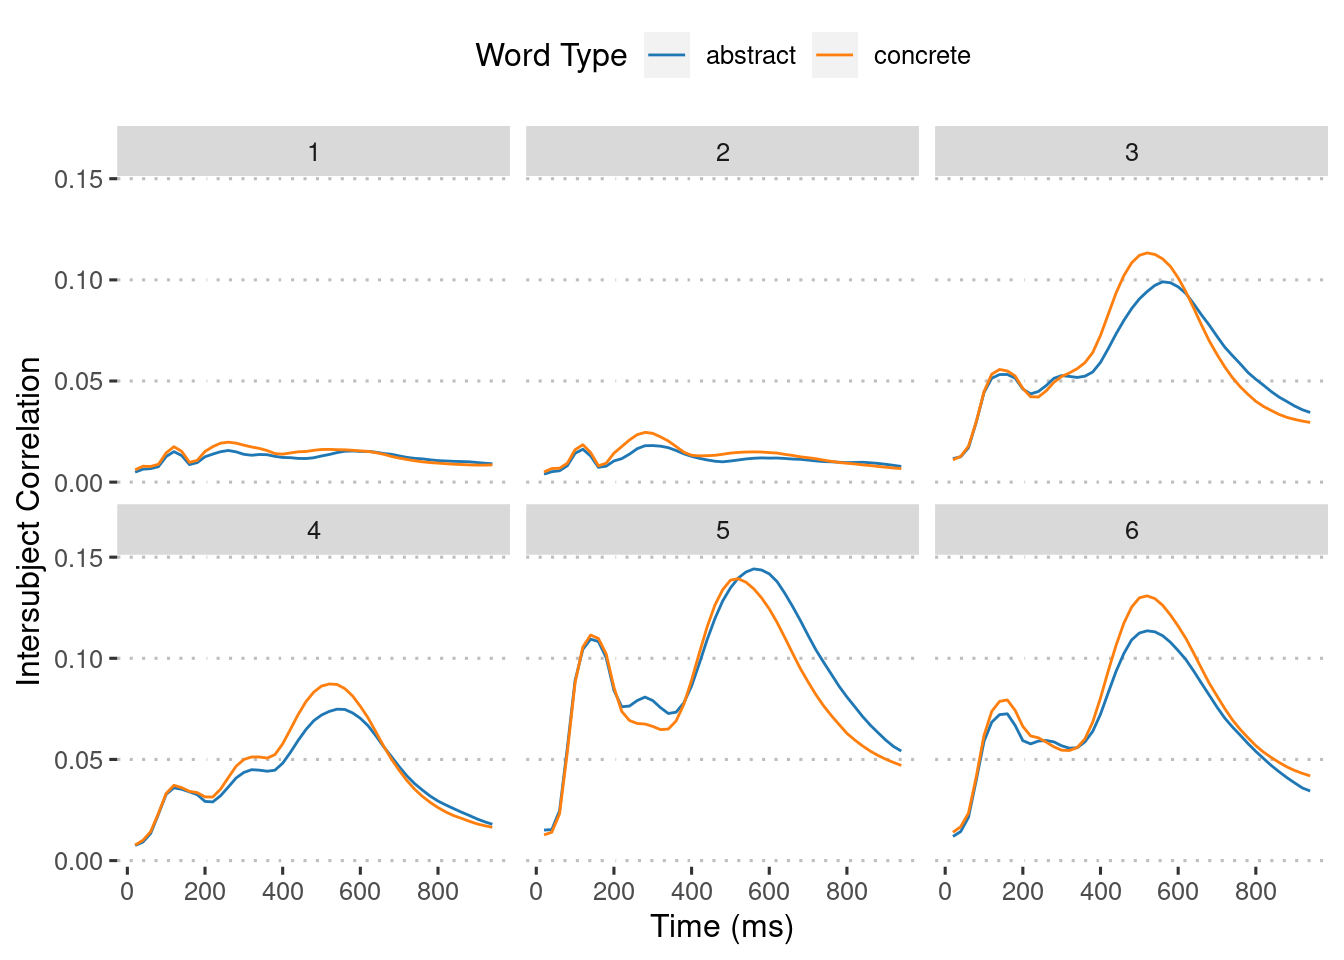
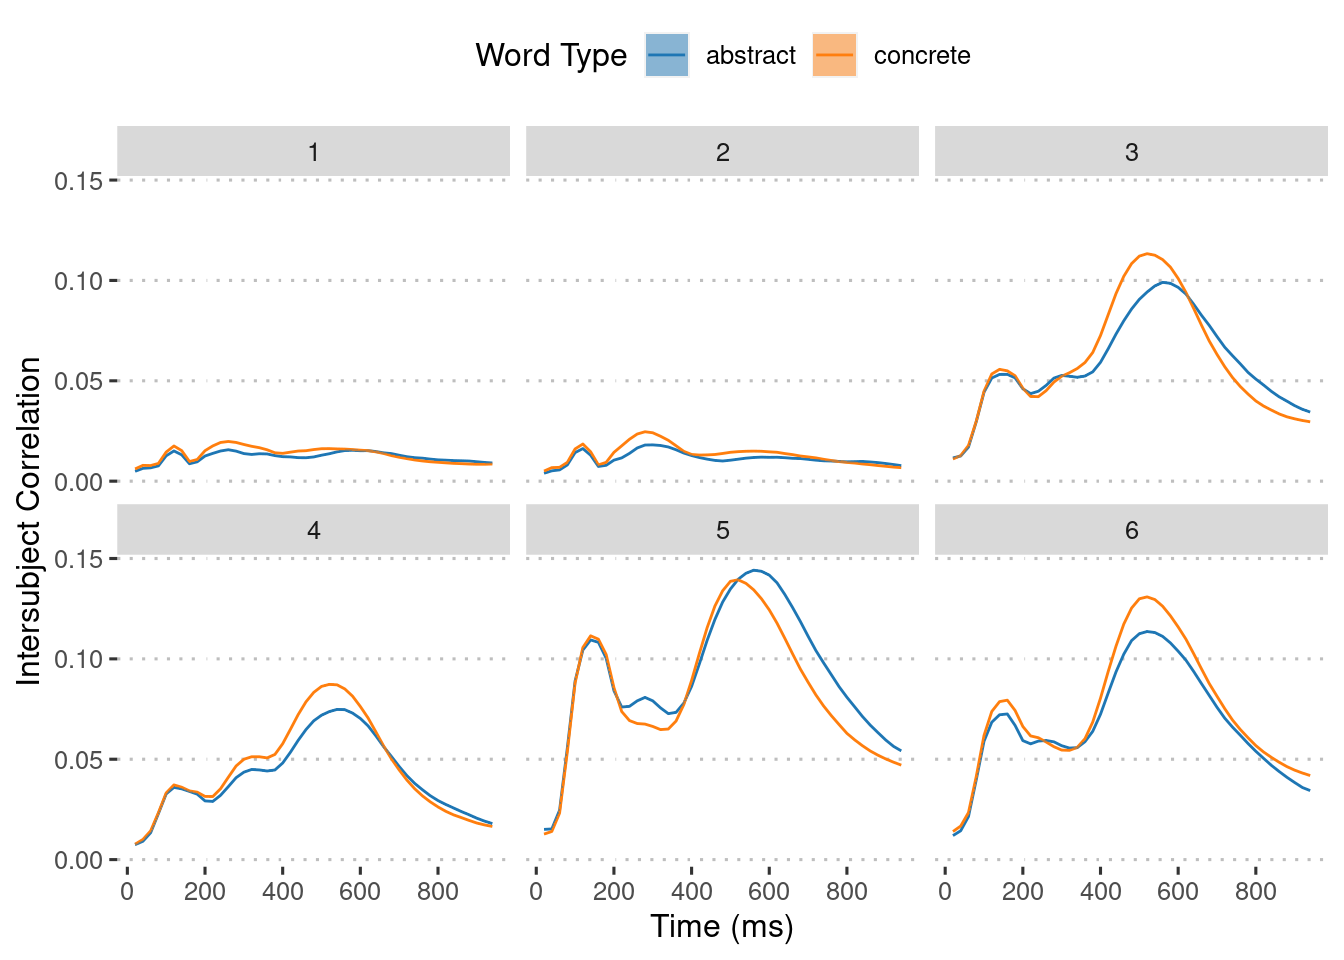
Built site for gh-pages

diff --git a/index.html b/index.html
@@ -225,13 +225,15 @@ div.csl-indent {
 <span id="cb2-12"><a href="#cb2-12" aria-hidden="true" tabindex="-1"></a>  ggpubr<span class="sc">::</span><span class="fu">theme_pubclean</span>()</span>
 <span id="cb2-13"><a href="#cb2-13" aria-hidden="true" tabindex="-1"></a></span>
 <span id="cb2-14"><a href="#cb2-14" aria-hidden="true" tabindex="-1"></a>targets<span class="sc">::</span><span class="fu">tar_read</span>(summary_word_cat_rsa_inter_common_trials_window) <span class="sc">|&gt;</span></span>
-<span id="cb2-15"><a href="#cb2-15" aria-hidden="true" tabindex="-1"></a>  <span class="fu">ggplot</span>(<span class="fu">aes</span>(window_id, mean_fisher_z)) <span class="sc">+</span></span>
+<span id="cb2-15"><a href="#cb2-15" aria-hidden="true" tabindex="-1"></a>  <span class="fu">ggplot</span>(<span class="fu">aes</span>(window_id, y, <span class="at">ymax =</span> ymax, <span class="at">ymin =</span> ymin)) <span class="sc">+</span></span>
 <span id="cb2-16"><a href="#cb2-16" aria-hidden="true" tabindex="-1"></a>  <span class="fu">geom_line</span>(<span class="fu">aes</span>(<span class="at">color =</span> word_category, <span class="at">group =</span> word_category)) <span class="sc">+</span></span>
-<span id="cb2-17"><a href="#cb2-17" aria-hidden="true" tabindex="-1"></a>  <span class="fu">scale_x_continuous</span>(<span class="at">name =</span> <span class="st">"Time (ms)"</span>, <span class="at">labels =</span> \(x) x <span class="sc">*</span> <span class="dv">20</span>) <span class="sc">+</span></span>
-<span id="cb2-18"><a href="#cb2-18" aria-hidden="true" tabindex="-1"></a>  <span class="fu">scale_y_continuous</span>(<span class="at">name =</span> <span class="st">"Intersubject Correlation"</span>) <span class="sc">+</span></span>
-<span id="cb2-19"><a href="#cb2-19" aria-hidden="true" tabindex="-1"></a>  ggsci<span class="sc">::</span><span class="fu">scale_color_d3</span>(<span class="at">name =</span> <span class="st">"Word Type"</span>) <span class="sc">+</span></span>
-<span id="cb2-20"><a href="#cb2-20" aria-hidden="true" tabindex="-1"></a>  <span class="fu">facet_wrap</span>(<span class="fu">vars</span>(region_id)) <span class="sc">+</span></span>
-<span id="cb2-21"><a href="#cb2-21" aria-hidden="true" tabindex="-1"></a>  ggpubr<span class="sc">::</span><span class="fu">theme_pubclean</span>()</span></code><button title="Copy to Clipboard" class="code-copy-button"><i class="bi"></i></button></pre></div>
+<span id="cb2-17"><a href="#cb2-17" aria-hidden="true" tabindex="-1"></a>  <span class="fu">geom_ribbon</span>(<span class="fu">aes</span>(<span class="at">fill =</span> word_category), <span class="at">alpha =</span> <span class="fl">0.5</span>) <span class="sc">+</span></span>
+<span id="cb2-18"><a href="#cb2-18" aria-hidden="true" tabindex="-1"></a>  <span class="fu">scale_x_continuous</span>(<span class="at">name =</span> <span class="st">"Time (ms)"</span>, <span class="at">labels =</span> \(x) x <span class="sc">*</span> <span class="dv">20</span>) <span class="sc">+</span></span>
+<span id="cb2-19"><a href="#cb2-19" aria-hidden="true" tabindex="-1"></a>  <span class="fu">scale_y_continuous</span>(<span class="at">name =</span> <span class="st">"Intersubject Correlation"</span>) <span class="sc">+</span></span>
+<span id="cb2-20"><a href="#cb2-20" aria-hidden="true" tabindex="-1"></a>  ggsci<span class="sc">::</span><span class="fu">scale_fill_d3</span>(<span class="at">name =</span> <span class="st">"Word Type"</span>) <span class="sc">+</span></span>
+<span id="cb2-21"><a href="#cb2-21" aria-hidden="true" tabindex="-1"></a>  ggsci<span class="sc">::</span><span class="fu">scale_color_d3</span>(<span class="at">name =</span> <span class="st">"Word Type"</span>) <span class="sc">+</span></span>
+<span id="cb2-22"><a href="#cb2-22" aria-hidden="true" tabindex="-1"></a>  <span class="fu">facet_wrap</span>(<span class="fu">vars</span>(region_id)) <span class="sc">+</span></span>
+<span id="cb2-23"><a href="#cb2-23" aria-hidden="true" tabindex="-1"></a>  ggpubr<span class="sc">::</span><span class="fu">theme_pubclean</span>()</span></code><button title="Copy to Clipboard" class="code-copy-button"><i class="bi"></i></button></pre></div>
 </details>
 <div class="cell-output-display">
 <div id="fig-inter-abs-con-1" class="quarto-figure quarto-figure-center anchored">
@@ -273,13 +275,18 @@ div.csl-indent {
 <span id="cb3-12"><a href="#cb3-12" aria-hidden="true" tabindex="-1"></a>  ggpubr<span class="sc">::</span><span class="fu">theme_pubclean</span>()</span>
 <span id="cb3-13"><a href="#cb3-13" aria-hidden="true" tabindex="-1"></a></span>
 <span id="cb3-14"><a href="#cb3-14" aria-hidden="true" tabindex="-1"></a>targets<span class="sc">::</span><span class="fu">tar_read</span>(summary_word_mem_rsa_inter_common_trials_window) <span class="sc">|&gt;</span></span>
-<span id="cb3-15"><a href="#cb3-15" aria-hidden="true" tabindex="-1"></a>  <span class="fu">ggplot</span>(<span class="fu">aes</span>(window_id, mean_fisher_z)) <span class="sc">+</span></span>
+<span id="cb3-15"><a href="#cb3-15" aria-hidden="true" tabindex="-1"></a>  <span class="fu">ggplot</span>(<span class="fu">aes</span>(window_id, y, <span class="at">ymax =</span> ymax, <span class="at">ymin =</span> ymin)) <span class="sc">+</span></span>
 <span id="cb3-16"><a href="#cb3-16" aria-hidden="true" tabindex="-1"></a>  <span class="fu">geom_line</span>(<span class="fu">aes</span>(<span class="at">color =</span> response_type_shared, <span class="at">group =</span> response_type_shared)) <span class="sc">+</span></span>
-<span id="cb3-17"><a href="#cb3-17" aria-hidden="true" tabindex="-1"></a>  <span class="fu">scale_x_continuous</span>(<span class="at">name =</span> <span class="st">"Time (ms)"</span>, <span class="at">labels =</span> \(x) x <span class="sc">*</span> <span class="dv">20</span>) <span class="sc">+</span></span>
-<span id="cb3-18"><a href="#cb3-18" aria-hidden="true" tabindex="-1"></a>  <span class="fu">scale_y_continuous</span>(<span class="at">name =</span> <span class="st">"Intersubject Correlation"</span>) <span class="sc">+</span></span>
-<span id="cb3-19"><a href="#cb3-19" aria-hidden="true" tabindex="-1"></a>  <span class="fu">scale_color_brewer</span>(<span class="at">name =</span> <span class="st">"Mem Type Common"</span>, <span class="at">palette =</span> <span class="st">"Oranges"</span>, <span class="at">direction =</span> <span class="sc">-</span><span class="dv">1</span>) <span class="sc">+</span></span>
-<span id="cb3-20"><a href="#cb3-20" aria-hidden="true" tabindex="-1"></a>  <span class="fu">facet_wrap</span>(<span class="fu">vars</span>(region_id)) <span class="sc">+</span></span>
-<span id="cb3-21"><a href="#cb3-21" aria-hidden="true" tabindex="-1"></a>  ggpubr<span class="sc">::</span><span class="fu">theme_pubclean</span>()</span></code><button title="Copy to Clipboard" class="code-copy-button"><i class="bi"></i></button></pre></div>
+<span id="cb3-17"><a href="#cb3-17" aria-hidden="true" tabindex="-1"></a>  <span class="fu">geom_ribbon</span>(<span class="fu">aes</span>(<span class="at">fill =</span> response_type_shared)) <span class="sc">+</span></span>
+<span id="cb3-18"><a href="#cb3-18" aria-hidden="true" tabindex="-1"></a>  <span class="fu">scale_x_continuous</span>(<span class="at">name =</span> <span class="st">"Time (ms)"</span>, <span class="at">labels =</span> \(x) x <span class="sc">*</span> <span class="dv">20</span>) <span class="sc">+</span></span>
+<span id="cb3-19"><a href="#cb3-19" aria-hidden="true" tabindex="-1"></a>  <span class="fu">scale_y_continuous</span>(<span class="at">name =</span> <span class="st">"Intersubject Correlation"</span>) <span class="sc">+</span></span>
+<span id="cb3-20"><a href="#cb3-20" aria-hidden="true" tabindex="-1"></a>  <span class="fu">scale_color_brewer</span>(</span>
+<span id="cb3-21"><a href="#cb3-21" aria-hidden="true" tabindex="-1"></a>    <span class="at">name =</span> <span class="st">"Mem Type Common"</span>, </span>
+<span id="cb3-22"><a href="#cb3-22" aria-hidden="true" tabindex="-1"></a>    <span class="at">palette =</span> <span class="st">"Oranges"</span>, <span class="at">direction =</span> <span class="sc">-</span><span class="dv">1</span>, </span>
+<span id="cb3-23"><a href="#cb3-23" aria-hidden="true" tabindex="-1"></a>    <span class="at">aesthetics =</span> <span class="fu">c</span>(<span class="st">"colour"</span>, <span class="st">"fill"</span>)</span>
+<span id="cb3-24"><a href="#cb3-24" aria-hidden="true" tabindex="-1"></a>  ) <span class="sc">+</span></span>
+<span id="cb3-25"><a href="#cb3-25" aria-hidden="true" tabindex="-1"></a>  <span class="fu">facet_wrap</span>(<span class="fu">vars</span>(region_id)) <span class="sc">+</span></span>
+<span id="cb3-26"><a href="#cb3-26" aria-hidden="true" tabindex="-1"></a>  ggpubr<span class="sc">::</span><span class="fu">theme_pubclean</span>()</span></code><button title="Copy to Clipboard" class="code-copy-button"><i class="bi"></i></button></pre></div>
 </details>
 <div class="cell-output-display">
 <div id="fig-inter-mem-eff-1" class="quarto-figure quarto-figure-center anchored">
@@ -367,16 +374,16 @@ div.csl-indent {
 <span id="cb4-54"><a href="#cb4-54" aria-hidden="true" tabindex="-1"></a>  ) <span class="sc">+</span></span>
 <span id="cb4-55"><a href="#cb4-55" aria-hidden="true" tabindex="-1"></a>  ggpubr<span class="sc">::</span><span class="fu">theme_pubr</span>()</span>
 <span id="cb4-56"><a href="#cb4-56" aria-hidden="true" tabindex="-1"></a></span>
-<span id="cb4-57"><a href="#cb4-57" aria-hidden="true" tabindex="-1"></a>clusters_p_group_window <span class="ot">&lt;-</span> targets<span class="sc">::</span><span class="fu">tar_read</span>(clusters_p_group_window) <span class="sc">|&gt;</span></span>
+<span id="cb4-57"><a href="#cb4-57" aria-hidden="true" tabindex="-1"></a>clusters_p_pred_perf <span class="ot">&lt;-</span> targets<span class="sc">::</span><span class="fu">tar_read</span>(clusters_p_pred_perf) <span class="sc">|&gt;</span></span>
 <span id="cb4-58"><a href="#cb4-58" aria-hidden="true" tabindex="-1"></a>  <span class="fu">filter</span>(mem_type <span class="sc">%in%</span> <span class="fu">names</span>(mem_types_report))</span>
-<span id="cb4-59"><a href="#cb4-59" aria-hidden="true" tabindex="-1"></a>stats <span class="ot">&lt;-</span> targets<span class="sc">::</span><span class="fu">tar_read</span>(stats_group_window) <span class="sc">|&gt;</span></span>
+<span id="cb4-59"><a href="#cb4-59" aria-hidden="true" tabindex="-1"></a>stats_pred_perf <span class="ot">&lt;-</span> targets<span class="sc">::</span><span class="fu">tar_read</span>(stats_pred_perf) <span class="sc">|&gt;</span></span>
 <span id="cb4-60"><a href="#cb4-60" aria-hidden="true" tabindex="-1"></a>  <span class="fu">filter</span>(mem_type <span class="sc">%in%</span> <span class="fu">names</span>(mem_types_report))</span>
-<span id="cb4-61"><a href="#cb4-61" aria-hidden="true" tabindex="-1"></a>stats <span class="sc">|&gt;</span></span>
+<span id="cb4-61"><a href="#cb4-61" aria-hidden="true" tabindex="-1"></a>stats_pred_perf <span class="sc">|&gt;</span></span>
 <span id="cb4-62"><a href="#cb4-62" aria-hidden="true" tabindex="-1"></a>  <span class="fu">ggplot</span>(<span class="fu">aes</span>(window_id, estimate)) <span class="sc">+</span></span>
 <span id="cb4-63"><a href="#cb4-63" aria-hidden="true" tabindex="-1"></a>  <span class="fu">geom_area</span>(</span>
-<span id="cb4-64"><a href="#cb4-64" aria-hidden="true" tabindex="-1"></a>    <span class="at">data =</span> stats <span class="sc">|&gt;</span></span>
+<span id="cb4-64"><a href="#cb4-64" aria-hidden="true" tabindex="-1"></a>    <span class="at">data =</span> stats_pred_perf <span class="sc">|&gt;</span></span>
 <span id="cb4-65"><a href="#cb4-65" aria-hidden="true" tabindex="-1"></a>      <span class="fu">inner_join</span>(</span>
-<span id="cb4-66"><a href="#cb4-66" aria-hidden="true" tabindex="-1"></a>        clusters_p_group_window,</span>
+<span id="cb4-66"><a href="#cb4-66" aria-hidden="true" tabindex="-1"></a>        clusters_p_pred_perf,</span>
 <span id="cb4-67"><a href="#cb4-67" aria-hidden="true" tabindex="-1"></a>        <span class="at">by =</span> <span class="fu">join_by</span>(region_id, mem_type, window_id <span class="sc">&gt;=</span> start, window_id <span class="sc">&lt;=</span> end)</span>
 <span id="cb4-68"><a href="#cb4-68" aria-hidden="true" tabindex="-1"></a>      ),</span>
 <span id="cb4-69"><a href="#cb4-69" aria-hidden="true" tabindex="-1"></a>    <span class="at">alpha =</span> <span class="fl">0.5</span></span>
@@ -389,10 +396,10 @@ div.csl-indent {
 <span id="cb4-76"><a href="#cb4-76" aria-hidden="true" tabindex="-1"></a>  ) <span class="sc">+</span></span>
 <span id="cb4-77"><a href="#cb4-77" aria-hidden="true" tabindex="-1"></a>  <span class="fu">geom_text</span>(</span>
 <span id="cb4-78"><a href="#cb4-78" aria-hidden="true" tabindex="-1"></a>    <span class="fu">aes</span>(mid, estimate <span class="sc">/</span> <span class="dv">2</span>, <span class="at">label =</span> label),</span>
-<span id="cb4-79"><a href="#cb4-79" aria-hidden="true" tabindex="-1"></a>    <span class="at">data =</span> clusters_p_group_window <span class="sc">|&gt;</span></span>
+<span id="cb4-79"><a href="#cb4-79" aria-hidden="true" tabindex="-1"></a>    <span class="at">data =</span> clusters_p_pred_perf <span class="sc">|&gt;</span></span>
 <span id="cb4-80"><a href="#cb4-80" aria-hidden="true" tabindex="-1"></a>      <span class="fu">mutate</span>(<span class="at">mid =</span> <span class="fu">round</span>((start <span class="sc">+</span> end) <span class="sc">/</span> <span class="dv">2</span>)) <span class="sc">|&gt;</span></span>
 <span id="cb4-81"><a href="#cb4-81" aria-hidden="true" tabindex="-1"></a>      <span class="fu">inner_join</span>(</span>
-<span id="cb4-82"><a href="#cb4-82" aria-hidden="true" tabindex="-1"></a>        stats,</span>
+<span id="cb4-82"><a href="#cb4-82" aria-hidden="true" tabindex="-1"></a>        stats_pred_perf,</span>
 <span id="cb4-83"><a href="#cb4-83" aria-hidden="true" tabindex="-1"></a>        <span class="at">by =</span> <span class="fu">join_by</span>(region_id, mem_type, mid <span class="sc">==</span> window_id)</span>
 <span id="cb4-84"><a href="#cb4-84" aria-hidden="true" tabindex="-1"></a>      ) <span class="sc">|&gt;</span></span>
 <span id="cb4-85"><a href="#cb4-85" aria-hidden="true" tabindex="-1"></a>      <span class="fu">mutate</span>(</span>
